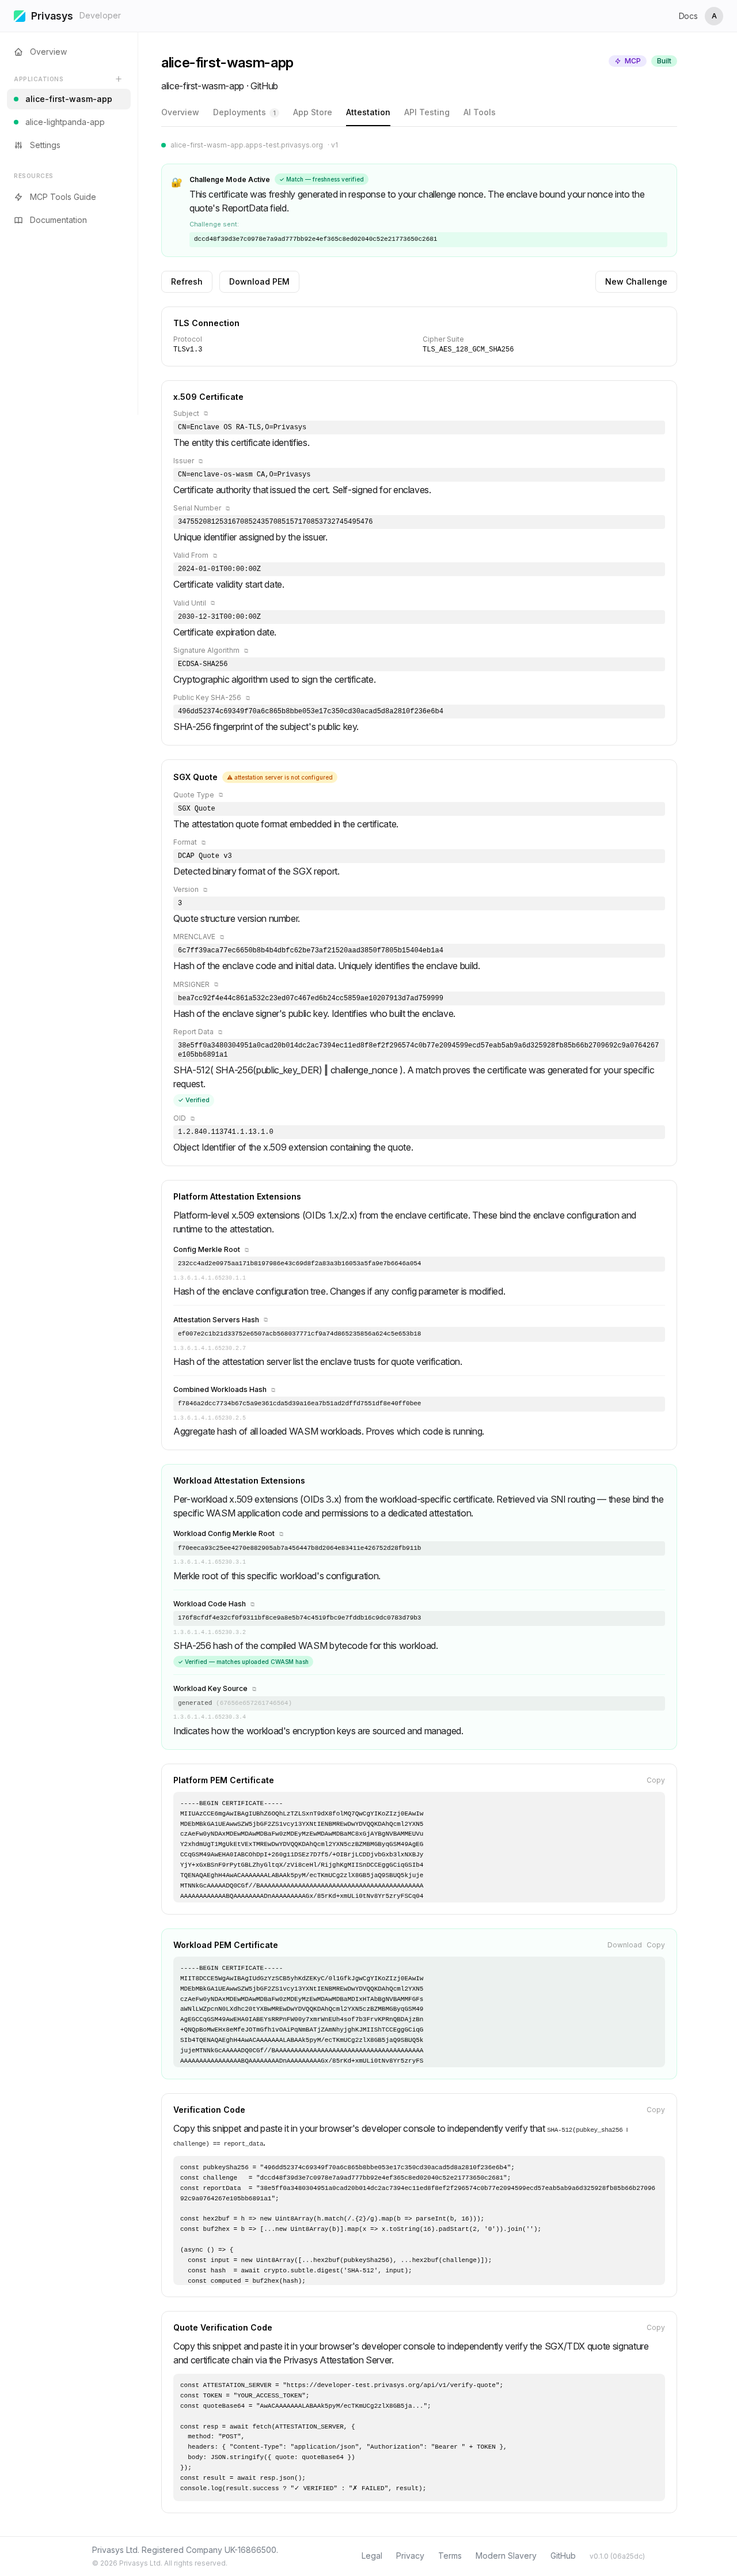
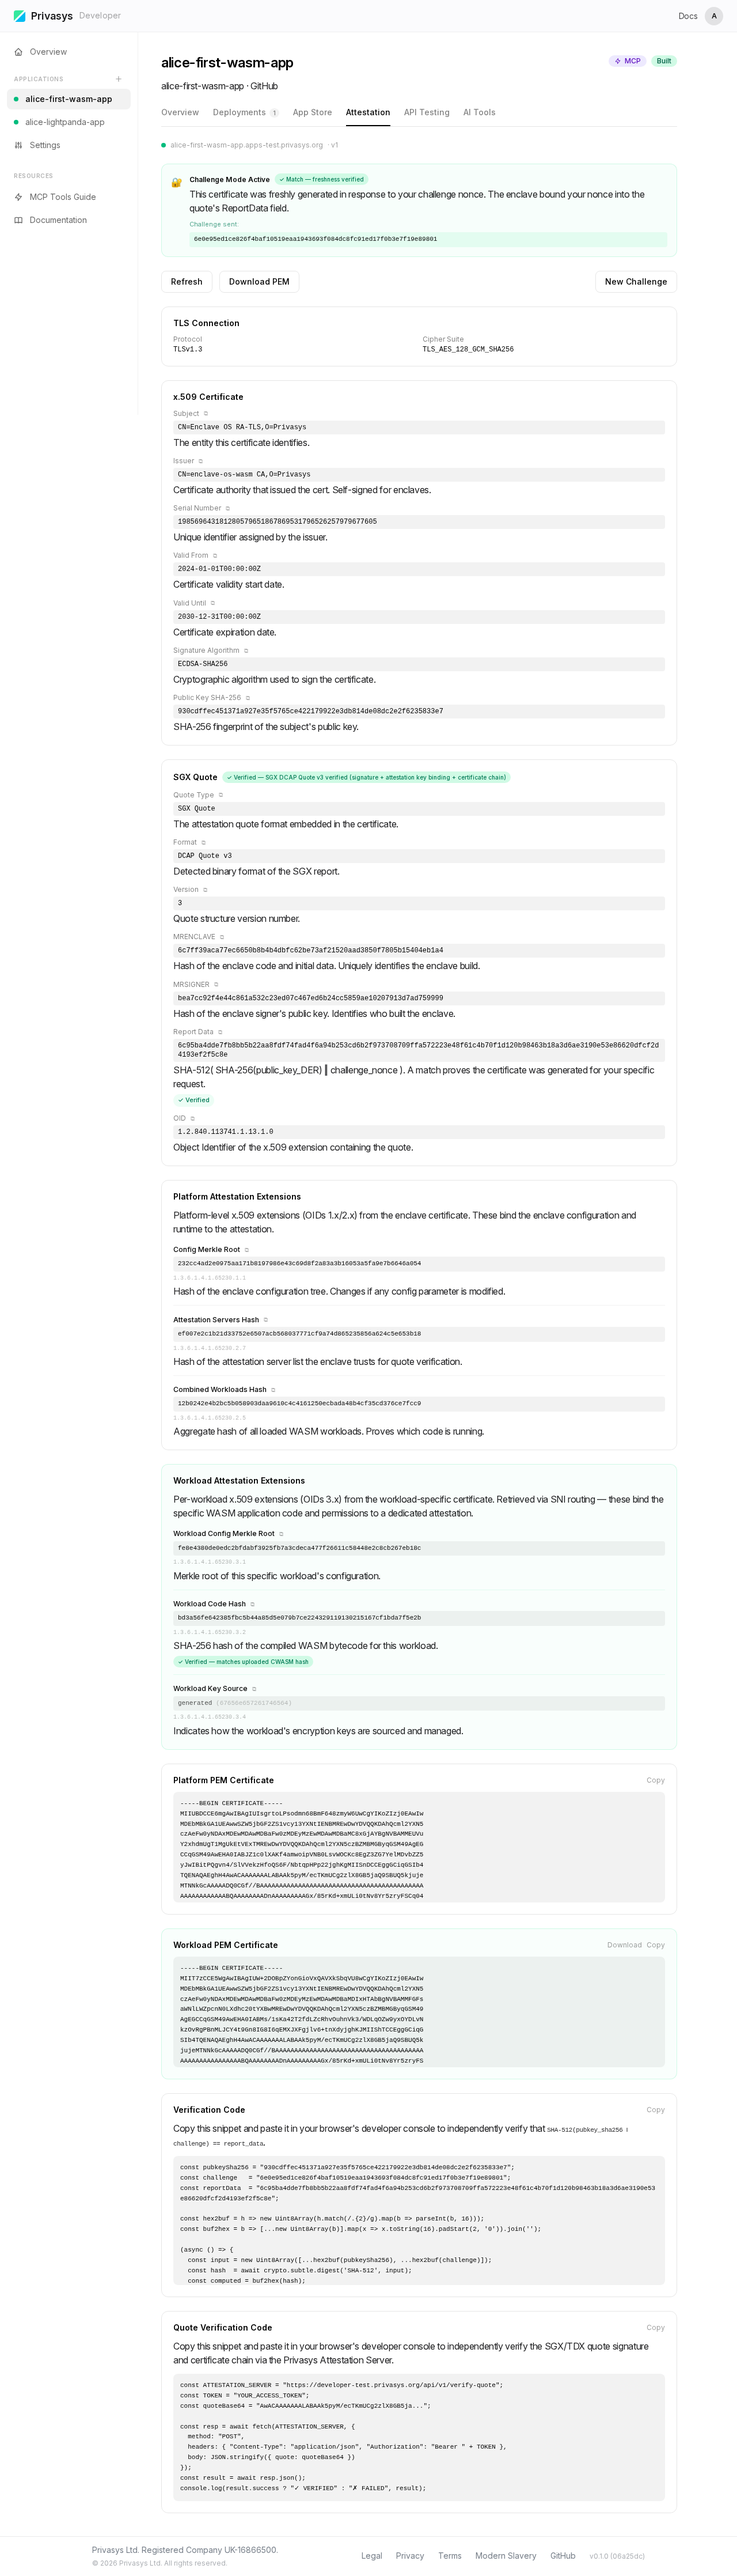
docs: refresh tutorial screenshots and add workload extensions
Re-capture all WASM and container tutorial screenshots with the updated
platform hostname (v-fr-dev.privasys.org).

- Add container-06b-workload-extensions.png (Workload Attestation Extensions)
- Rename RTMR measurements screenshot to container-06c
- Remove old container-06b-rtmr-measurements.png
- Update tutorial.mdx with workload extensions section
- Update E2E test to capture workload extensions + RTMR screenshots

Changed region(s): [[0.3125, 0.2798, 0.6875, 0.3109]]

diff --git a/apps/fronts/developer.privasys.org/e2e/tutorial-screenshots.spec.ts b/apps/fronts/developer.privasys.org/e2e/tutorial-screenshots.spec.ts
@@ -245,16 +245,23 @@ test.describe('WASM App Tutorial', () => {
         await expect(page.getByText(/TLS Connection/i)).toBeVisible({ timeout: 60_000 });
         await settle(page, 2000);
 
+        // Wait for quote verification to complete (✓ Verified badge)
+        await expect(page.getByText(/Verified/).first()).toBeVisible({ timeout: 30_000 });
+
+        // Fail if the attestation server is not configured
+        await expect(page.getByText(/attestation server is not configured/i)).not.toBeVisible();
+
+        // Workload Attestation Extensions must be present for WASM apps
+        const workloadSection = page.getByText('Workload Attestation Extensions');
+        await expect(workloadSection).toBeVisible({ timeout: 10_000 });
+
         // Screenshot 1: Full attestation with challenge
         await page.screenshot({ path: shot('wasm-06a-attestation-challenge'), fullPage: true });
 
         // Screenshot 2: Scroll to Workload Attestation Extensions section
-        const workloadSection = page.getByText('Workload Attestation Extensions');
-        if (await workloadSection.isVisible({ timeout: 5_000 }).catch(() => false)) {
-            await workloadSection.scrollIntoViewIfNeeded();
-            await settle(page, 500);
-            await page.screenshot({ path: shot('wasm-06b-workload-extensions'), fullPage: true });
-        }
+        await workloadSection.scrollIntoViewIfNeeded();
+        await settle(page, 500);
+        await page.screenshot({ path: shot('wasm-06b-workload-extensions'), fullPage: true });
     });
 
     test('wasm-07 — API Testing: call get-random', async ({ page }) => {
@@ -494,14 +501,29 @@ test.describe('Container App Tutorial', () => {
         await expect(page.getByText(/TLS Connection/i)).toBeVisible({ timeout: 60_000 });
         await settle(page, 2000);
 
+        // Wait for quote verification to complete (✓ Verified badge)
+        await expect(page.getByText(/Verified/).first()).toBeVisible({ timeout: 30_000 });
+
+        // Fail if the attestation server is not configured
+        await expect(page.getByText(/attestation server is not configured/i)).not.toBeVisible();
+
+        // Workload Attestation Extensions must be present for container apps
+        const workloadSection = page.getByText('Workload Attestation Extensions');
+        await expect(workloadSection).toBeVisible({ timeout: 10_000 });
+
         await page.screenshot({ path: shot('container-06a-attestation-challenge'), fullPage: true });
 
-        // Scroll to TDX measurements (RTMR registers)
+        // Scroll to Workload Attestation Extensions
+        await workloadSection.scrollIntoViewIfNeeded();
+        await settle(page, 500);
+        await page.screenshot({ path: shot('container-06b-workload-extensions'), fullPage: true });
+
+        // Scroll to TDX RTMR measurements
         const rtmrSection = page.getByText(/RTMR/);
         if (await rtmrSection.first().isVisible({ timeout: 5_000 }).catch(() => false)) {
             await rtmrSection.first().scrollIntoViewIfNeeded();
             await settle(page, 500);
-            await page.screenshot({ path: shot('container-06b-rtmr-measurements'), fullPage: true });
+            await page.screenshot({ path: shot('container-06c-rtmr-measurements'), fullPage: true });
         }
     });
 
